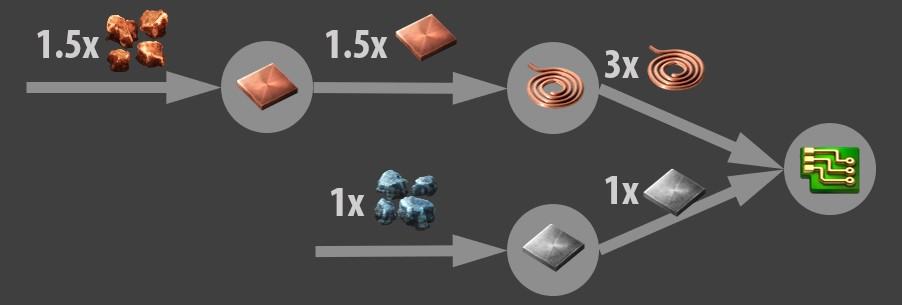
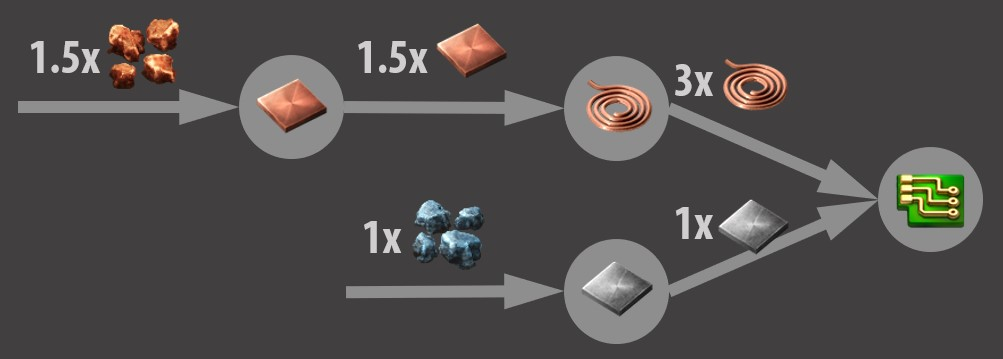
Images finished

diff --git a/submissions/mod-spotlight-villfuk02-randomizer/mod-spotlight-villfuk02-randomizer.md b/submissions/mod-spotlight-villfuk02-randomizer/mod-spotlight-villfuk02-randomizer.md
@@ -36,23 +36,23 @@ Except I left out some BIG issues (notice the missing quotes and the capital let
 
 Loops with more than one recipe are somewhat problematic. There are no loops in vanilla with more than one recipe (except for barreling and unbarrelling, which is not randomized by default anyway), so they’re pretty easy to miss, but in mods, they are everywhere, also the randomizer might accidentally create a loop in certain conditions. To illustrate the problem we’ll need an example. Let’s take synthetic sapphires in Industrial Revolution 2: Here you can crush a sapphire and then make another one from some of the dust, silica and pure nickel.
 
-(sapphire loop)
+![Sapphire loop](sapphire-loop.jpg)
 
-The way I resolved this issue is that when a loop is detected, it gets cut open in one point and then the recipes are merged into one. The new recipe is then used instead of the one it started and ended with.
+The way I resolved this issue is that when a loop is detected, it gets cut open in one point and then the recipes are merged into one. The new recipe is then used instead of the one it ended with.
 
-(sapphire unlooped)
+![Sapphire unlooped](sapphire-unlooped.jpg)
 
 And we end up with a recipe to make sapphires while leaving out the confusing details! But what happens when there’s branching loops or loops within loops?
 
-(insert loopy diagram)
+![Loopy diagram](loopy.jpg)
 
 Let's just say that things get loopy. I think I somewhat solved it but I won’t go into details here, this is not a graph theory course :D (and I’m not sure the solution works reliably).
 
 And now, time for the biggest issue of them all: recipes with multiple outputs. Let’s take for example advanced oil processing.
 
-(advanced oil processing)
+![Advanced oil processing](advanced-oil-processing.jpg)
 
-By default, crude oil has a value of 0.4 and we’ll ignore water for now. That means the recipe has a total value of 40. So we know that 25 heavy oil + 45 light oil + 55 petroleum gas should have a total value of 40, but how much of that value is each part? There are many ways to approach this and tackling this issue took the most time and it caused many headaches. Let’s go through the two most different options.
+By default, crude oil has a value of 0.4 and we’ll ignore water for now. That means the recipe has a total value of 40. So we know that 25 heavy oil + 45 light oil + 55 petroleum gas should have a value of 40 in total, but how much of that value is contained within each product? There are many ways to approach this and tackling this issue took the most time and it caused many headaches. Let’s go through the two most different options.
 
 The simplest: Just make each of the results worth an equal part of the total value. This is mostly reasonable, but it breaks when you introduce waste products. For example, the kovarex enrichment process makes 41 u-235 and 2 u-238, the algorithm would assume they both have the same value, but you probably know that u-235 is much more valuable. So this approach is not really usable.
 
